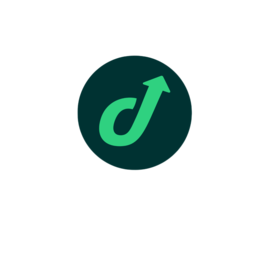
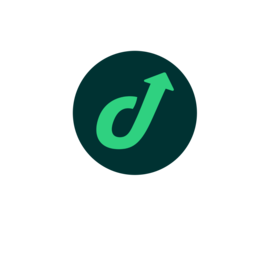
Add landing for careers

Changed region(s): [[0.2667, 0.1778, 0.7407, 0.6519]]

diff --git a/components/GetStarted.tsx b/components/GetStarted.tsx
@@ -3,14 +3,14 @@ import { h } from "preact";
 
 export default function GetStarted() {
   return (
-    <section class="pt-20 pb-32 bg-white overflow-hidden">
+    <section class="pt-20 pb-32">
       <div class="container mx-auto px-4">
         <div class="flex flex-wrap items-center -m-6">
           <div class="w-full md:w-1/2 p-6">
             <div class="bg-decogreen p-1 mx-auto max-w-max overflow-hidden rounded-full">
               <img
                 class="object-cover rounded-full"
-                src="/android-chrome-512x512.png"
+                src="/deco-round.png"
                 alt=""
               />
             </div>
@@ -18,32 +18,13 @@ export default function GetStarted() {
           <div class="w-full md:w-1/2 p-6">
             <div class="md:max-w-md">
               <h2 class="mb-3 font-heading font-bold text-decogreen text-6xl sm:text-7xl">
-                Welcome to Live!
+                Trabalhe para empresas que constroem o futuro da tecnologia de
+                digital experience.
               </h2>
-              <p class="mb-4 text-lg text-gray-500">
-                Create a new page by visiting it — try the root URL /
+              <p class="mb-4 text-lg font-light">
+                Aqui você encontra oportunidades de trabalho para empresas que
+                usam tecnologias de ponta — literalmente.
               </p>
-              <p class="mb-8 text-lg text-gray-500 border border-dashed border-gray-300">
-                <span class="italic">PROTIP:</span>{" "}
-                Hit backtick (`) and click on any part of this page to navigate
-                to the code in VSCode automatically. Hit ESC to exit inspect
-                mode.
-              </p>
-
-              <div class="group relative md:max-w-max mb-5">
-                <a
-                  href="/"
-                  class="p-1 w-full font-heading font-semibold text-xs text-white uppercase overflow-hidden"
-                >
-                  <div class="relative py-5 px-14 bg-darkgreen overflow-hidden rounded-lg">
-                    <div class="absolute top-0 left-0 transform -translate-x-full group-hover:-translate-x-0 h-full w-full bg-decogreen transition ease-in-out duration-500">
-                    </div>
-                    <p class="relative z-10 group-hover:text-white">
-                      Go to root page
-                    </p>
-                  </div>
-                </a>
-              </div>
             </div>
           </div>
         </div>

diff --git a/components/Head.tsx b/components/Head.tsx
@@ -5,49 +5,42 @@ import { asset, Head } from "$fresh/runtime.ts";
 export interface HeadProps {
   title?: string;
   description?: string;
-  url: URL;
+  url?: URL;
   imageUrl?: string;
   faviconUrl?: string;
   styleUrls?: string[];
   themeColor?: string;
 }
 
-export const props: HeadProps = {
-  title: "Deco Live Template Site — edit this!",
-  description: "A complete digital commerce experience platform.",
-  url: new URL("https://deco.cx"),
+export const defaultProps: HeadProps = {
+  title: "deco.careers — trabalhe na edge, evolua na carreira",
+  description:
+    "Trabalhe para empresas que constroem o futuro da tecnologia de digital experience.",
+  url: new URL("https://deco.careers"),
   imageUrl: "https://via.placeholder.com/300",
   faviconUrl: "",
   styleUrls: [],
-  themeColor: "#003232",
+  themeColor: "#2FD180",
 };
 
 export default function HeadComponent(props: HeadProps) {
-  const {
-    title,
-    description,
-    url,
-    imageUrl,
-    faviconUrl,
-    styleUrls,
-    themeColor,
-  } = props;
+  const merged = { ...defaultProps, ...props };
   return (
     <Head>
-      <title>{title}</title>
-      <meta name="theme-color" content={themeColor}></meta>
-      <meta name="description" content={description} />
-      <meta property="og:title" content={title} />
-      <meta property="og:description" content={description} />
+      <title>{merged.title}</title>
+      <meta name="theme-color" content={merged.themeColor}></meta>
+      <meta name="description" content={merged.description} />
+      <meta property="og:title" content={merged.title} />
+      <meta property="og:description" content={merged.description} />
       <meta property="og:type" content="website" />
-      <meta property="og:url" content={url.href} />
+      <meta property="og:url" content={merged.url?.href} />
       <meta
         property="og:image"
-        content={imageUrl}
+        content={merged.imageUrl}
       />
       <link
         rel="shortcut icon"
-        href={faviconUrl}
+        href={merged.faviconUrl}
         type="image/x-icon"
       >
       </link>
@@ -63,7 +56,7 @@ export default function HeadComponent(props: HeadProps) {
       </link>
       <meta name="theme-color" content="#003232"></meta>
       <meta name="msapplication-TileColor" content="#003232"></meta>
-      {styleUrls?.map((styleUrl: string) => (
+      {merged.styleUrls?.map((styleUrl: string) => (
         <link rel="stylesheet" href={asset(styleUrl)}></link>
       ))}
     </Head>

diff --git a/deco.gen.ts b/deco.gen.ts
@@ -5,23 +5,18 @@
 import { DecoManifest } from "$live/types.ts";
 import * as $0 from "./routes/[...path].tsx";
 import * as $1 from "./routes/index.tsx";
-import * as $2 from "./routes/loader.tsx";
-import * as $3 from "./routes/start.tsx";
 import * as $$0 from "./islands/InspectVSCode.tsx";
 import * as $$$0 from "./components/GetStarted.tsx";
 import * as $$$1 from "./components/Head.tsx";
+import * as $$$2 from "./components/Layout.tsx";
 
 const manifest: DecoManifest = {
-  routes: {
-    "./routes/[...path].tsx": $0,
-    "./routes/index.tsx": $1,
-    "./routes/loader.tsx": $2,
-    "./routes/start.tsx": $3,
-  },
+  routes: { "./routes/[...path].tsx": $0, "./routes/index.tsx": $1 },
   islands: { "./islands/InspectVSCode.tsx": $$0 },
   components: {
     "./components/GetStarted.tsx": $$$0,
     "./components/Head.tsx": $$$1,
+    "./components/Layout.tsx": $$$2,
   },
   twind: {
     mode: "warn",
@@ -39,8 +34,9 @@ const manifest: DecoManifest = {
 
         black: "#000",
         white: "#fff",
-        decogreen: "#2bd281",
-        darkgreen: "#003232",
+        primary: "#2bd281",
+        "primary-dark": "#003232",
+        "primary-light": "#C5FFE9",
 
         gray: {
           50: "#f9fafb",

diff --git a/routes/index.tsx b/routes/index.tsx
@@ -1,9 +1,17 @@
 /** @jsx h */
-import { h } from "preact";
+/** @jsxFrag Fragment */
+import { Fragment, h } from "preact";
 import { createLivePage } from "$live/live.tsx";
+import Head from "../components/Head.tsx";
+import Layout from "../components/Layout.tsx";
 import GetStarted from "../components/GetStarted.tsx";
 
 export const { handler, LivePage } = createLivePage({
-  render: () => <GetStarted />,
+  render: () => (
+    <Layout>
+      <Head />
+      <GetStarted />
+    </Layout>
+  ),
 });
 export default LivePage;

diff --git a/tailwind.config.js b/tailwind.config.js
@@ -13,8 +13,9 @@ module.exports = {
 
       black: '#000',
       white: '#fff',
-      decogreen: '#2bd281',
-      darkgreen: '#003232',
+      primary: '#2bd281',
+      'primary-dark': '#003232',
+      'primary-light': '#C5FFE9',
 
       gray: {
         50: '#f9fafb',

diff --git a/live.ts b/live.ts
@@ -2,6 +2,6 @@ import manifest from "./deco.gen.ts";
 import { start } from "$live/server.ts";
 
 await start(manifest, {
-  site: "start",
-  domains: ["start.deco.cx", "golive.deno.dev"],
+  site: "careers",
+  domains: ["deco.careers", "deco-careers.deno.dev"],
 });

diff --git a/components/Layout.tsx b/components/Layout.tsx
@@ -1,0 +1,10 @@
+/** @jsx h */
+import { h } from "preact";
+
+export default function Layout(props: any) {
+  return (
+    <div class="min-h-screen bg-primary-dark text-primary-light">
+      {props.children}
+    </div>
+  );
+}
